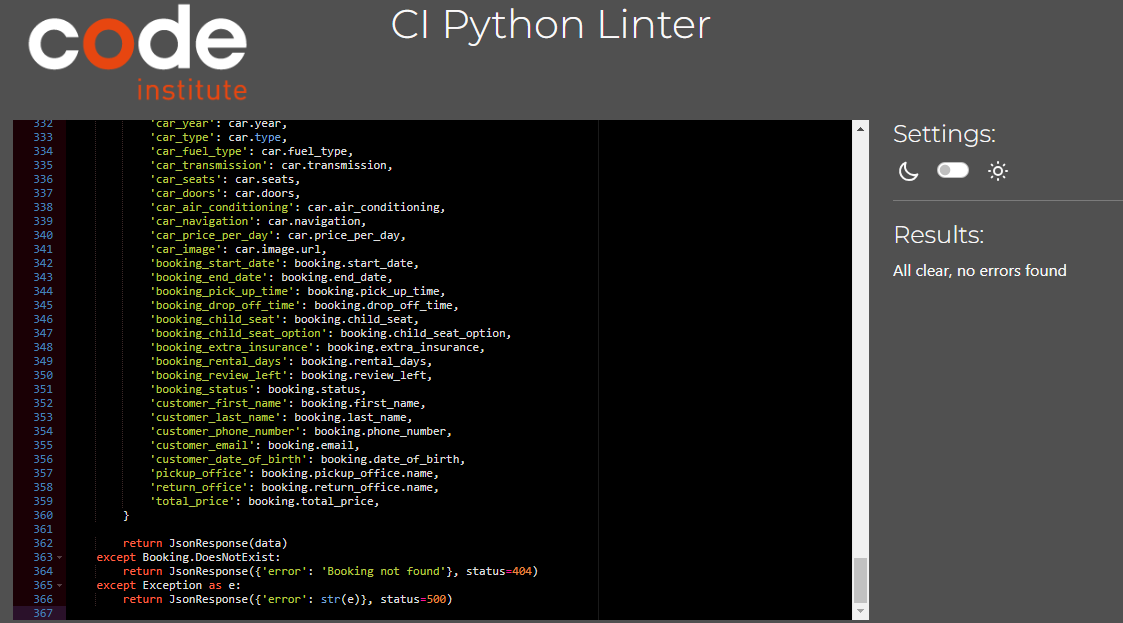
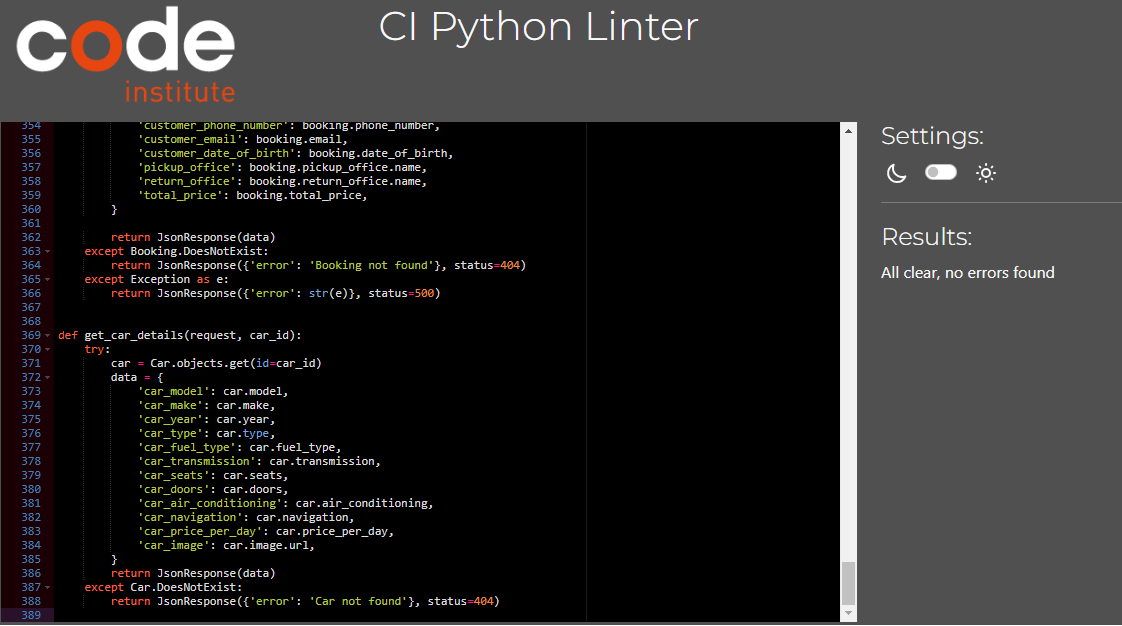
Add modal window with detail information about the car on the Booking Page

Changed region(s): [[0.0, 0.0, 1.0, 1.0], [0.3431, 0.0, 0.6239, 0.0915], [0.4055, 0.3965, 0.4679, 0.427]]

diff --git a/bookings/templates/bookings/booking.html b/bookings/templates/bookings/booking.html
@@ -5,6 +5,7 @@
 {% block content %}
 <div class="container py-5">
     <h2 class="text-center">Car Search</h2>
+    <h3 class="text-center h6">Please fill out the initial booking information to see the list of available cars.</h3>
     <div class="d-flex justify-content-center align-items-center search-form my-4">
         <div class="col-12 col-lg-8 mt-2">
             <form method="POST" action="{% url 'booking' %}">
@@ -116,7 +117,63 @@
     {% endif %}
 </div>
 
+<!-- Modal Window Car Info-->
+<div class="modal fade" id="detailCar" tabindex="-1" aria-labelledby="bookingModalLabel" aria-hidden="true">
+    <div class="modal-dialog modal-lg modal-dialog-scrollable">
+        <div class="modal-content">
+            <div class="modal-header">
+                <h5 class="modal-title" id="detailCarLabel">Detail Car Information</h5>
+                <button type="button" class="btn-close" data-bs-dismiss="modal" aria-label="Close"></button>
+            </div>
+            <div class="modal-body">
+                <div id="carInfo">
+                    <!-- Car Info will be inserted here -->
+                </div>
+            </div>
+            <div class="modal-footer">
+                <button type="button" class="btn btn-secondary" data-bs-dismiss="modal">Close</button>
+            </div>
+        </div>
+    </div>
+</div>
+
 <script>
+    document.addEventListener('DOMContentLoaded', function () {
+        document.body.addEventListener('click', function (event) {
+            if (event.target.matches('.car-name')) {
+                event.preventDefault();
+    
+                var carId = event.target.getAttribute('data-car-id');
+    
+                // Fetch car details (This can be done via an AJAX request or other methods)
+                fetch(`/booking/get_car_details/${carId}/`)  // You need to create a view for this
+                    .then(response => response.json())
+                    .then(data => {
+
+                        // Populate modal with car details
+                        var carInfoElement = document.getElementById('carInfo');
+                        if (carInfoElement) {
+                            carInfoElement.innerHTML = `
+                                <p><strong>${data.car_make} ${data.car_model}</strong></p>
+                                <p><strong>Type:</strong> ${data.car_type}</p>
+                                <p><strong>Year:</strong> ${data.car_year}</p>
+                                <p><strong>Fuel Type:</strong> ${data.car_fuel_type}</p>
+                                <p><strong>Transmission:</strong> ${data.car_transmission}</p>
+                                <p><strong>Seats:</strong> ${data.car_seats}</p>
+                                <p><strong>Doors:</strong> ${data.car_doors}</p>
+                                <p><strong>Air Conditioning:</strong> ${data.car_air_conditioning ? 'Yes' : 'No'}</p>
+                                <p><strong>Navigation:</strong> ${data.car_navigation ? 'Yes' : 'No'}</p>
+                                <p><strong>Price per day:</strong> €${data.car_price_per_day}</p>
+                                <img src="${data.car_image}" alt="Car image" class="img-fluid" id="carDetailImage">
+                            `;
+                        } else {
+                            console.error('Element with id "carInfo" not found.');
+                        }
+                    })
+                    .catch(error => console.error('Error fetching car details:', error));
+            }
+        });
+    });
     /**
     * Handles updating the car list based on selected filters and user authentication status.
     * 
@@ -255,5 +312,7 @@
             }
         });
     });
+    
+
 </script>
 {% endblock %}

diff --git a/bookings/templates/bookings/car_list.html b/bookings/templates/bookings/car_list.html
@@ -8,7 +8,10 @@
                         <img class="card-img-left car-image" src="{{ car.image.url }}" alt="{{ car.model }}">
                     </div>
                     <div class="car-info col-md-6 text-center text-md-start">
-                        <h3>{{ car.make }} {{ car.model }} <span class="fw-normal fs-5 fst-italic">{{ car.type }}</span>
+                        <h3>
+                            <a href="#" class="car-name" data-car-id="{{ car.id }}" data-bs-toggle="modal" data-bs-target="#detailCar">
+                                {{ car.make }} {{ car.model }} <span class="fw-normal fs-5 fst-italic">{{ car.type }}</span>
+                            </a>
                         </h3>
                         <p>Fuel: {{ car.fuel_type }}</p>
                         <p>Transmission: {{ car.transmission }}</p>

diff --git a/static/css/style.css b/static/css/style.css
@@ -417,3 +417,16 @@ a {
 
   /* ----------------END Review Carousel ----------------*/
 
+  /* ----------------Detail Car Info ------------------- */
+#carInfo p,
+#bookingInfo p,
+#customerInfo p {
+    margin: 0;
+}
+
+@media screen and (min-width: 992px) {
+    #carDetailImage {
+        width: 80%;
+    }
+}
+  /* ----------------END Detail Car Info --------------- */

diff --git a/bookings/views.py b/bookings/views.py
@@ -364,3 +364,25 @@ def booking_details(request, booking_id):
         return JsonResponse({'error': 'Booking not found'}, status=404)
     except Exception as e:
         return JsonResponse({'error': str(e)}, status=500)
+
+
+def get_car_details(request, car_id):
+    try:
+        car = Car.objects.get(id=car_id)
+        data = {
+            'car_model': car.model,
+            'car_make': car.make,
+            'car_year': car.year,
+            'car_type': car.type,
+            'car_fuel_type': car.fuel_type,
+            'car_transmission': car.transmission,
+            'car_seats': car.seats,
+            'car_doors': car.doors,
+            'car_air_conditioning': car.air_conditioning,
+            'car_navigation': car.navigation,
+            'car_price_per_day': car.price_per_day,
+            'car_image': car.image.url,
+        }
+        return JsonResponse(data)
+    except Car.DoesNotExist:
+        return JsonResponse({'error': 'Car not found'}, status=404)

diff --git a/bookings/urls.py b/bookings/urls.py
@@ -12,4 +12,6 @@ urlpatterns = [
          views.booking_form, name='booking_form'),
     path('booking_details/<int:booking_id>/',
          views.booking_details, name='booking_details'),
+    path('get_car_details/<int:car_id>/',
+         views.get_car_details, name='get_car_details'),
 ]

diff --git a/TESTING.md b/TESTING.md
@@ -9,7 +9,7 @@
 - [Responsiveness and Device Testing](#responsiveness-and-device-testing)
 - [Browser Testing](#browser-testing)
 - [Lighthouse Testing](#lighthouse-testing)
-
+- [User Story Testing](#user-story-testing)
 
 ## Code Validation
 
@@ -193,3 +193,18 @@ Lighthouse validation was run on all pages (both mobile and desktop) in order to
 | Sign Out            |     92      |      100      |      100       | 100 | <details><summary>Sign Out</summary><img src="static/images/readme_images/testing/lighthouse/mobile/sign-out.png"></details>                    |
 
 Some pages show a score of 78-79 for best practices in Lighthouse due to mixed content warnings caused by using Cloudinary.
+
+## User Story Testing
+
+| User Story                                                                                                                                                                                                                        | Screenshot                                                                                                                                                                                              | Result           |
+| --------------------------------------------------------------------------------------------------------------------------------------------------------------------------------------------------------------------------------- | ------------------------------------------------------------------------------------------------------------------------------------------------------------------------------------------------------- | ---------------- |
+| As a new user I can create an account so that I can access the rental services.  | <details><summary>Create account</summary><img src="static/images/readme_images/testing/user_stories/create-account.png"></details>                                                                                                                                                                     | <mark>PASS<mark> |
+| As a registered user I can log in to my account so that I can view and manage my rentals.  | <details><summary>Sign In</summary><img src="static/images/readme_images/testing/user_stories/sign-in.png"></details>                                                                                                                                                                     | <mark>PASS<mark> |
+| As a registered user I can view and update my profile information so that my personal data is accurate and up-to-date.  | <details><summary>My profile</summary><img src="static/images/readme_images/testing/user_stories/my-profile.png"></details>                                                                                                                                                                     | <mark>PASS<mark> |
+| As a user I can search for available cars so that I can find a car that fits my needs.  | <details><summary>Car Search</summary><img src="static/images/readme_images/testing/user_stories/car-search.png"></details>                                                                                                                                                                     | <mark>PASS<mark> |
+| As a user I can filter cars by type, price so that I can narrow down my search to the most suitable options.  | <details><summary>Car Filter</summary><img src="static/images/readme_images/testing/user_stories/car-filter.png"></details>                                                                                                                                                                     | <mark>PASS<mark> |
+| As a user I can view detailed information about a car so that I can make an informed decision before booking.  | <details><summary>Detail Info</summary><img src="static/images/readme_images/testing/user_stories/create-account.png"></details>                                                                                                                                                                     | <mark>PASS<mark> |
+| As a new user I can create an account so that I can access the rental services.  | <details><summary>Create account</summary><img src="static/images/readme_images/testing/user_stories/create-account.png"></details>                                                                                                                                                                     | <mark>PASS<mark> |
+| As a new user I can create an account so that I can access the rental services.  | <details><summary>Create account</summary><img src="static/images/readme_images/testing/user_stories/create-account.png"></details>                                                                                                                                                                     | <mark>PASS<mark> |
+| As a new user I can create an account so that I can access the rental services.  | <details><summary>Create account</summary><img src="static/images/readme_images/testing/user_stories/create-account.png"></details>                                                                                                                                                                     | <mark>PASS<mark> |
+| As a new user I can create an account so that I can access the rental services.  | <details><summary>Create account</summary><img src="static/images/readme_images/testing/user_stories/create-account.png"></details>                                                                                                                                                                     | <mark>PASS<mark> |
